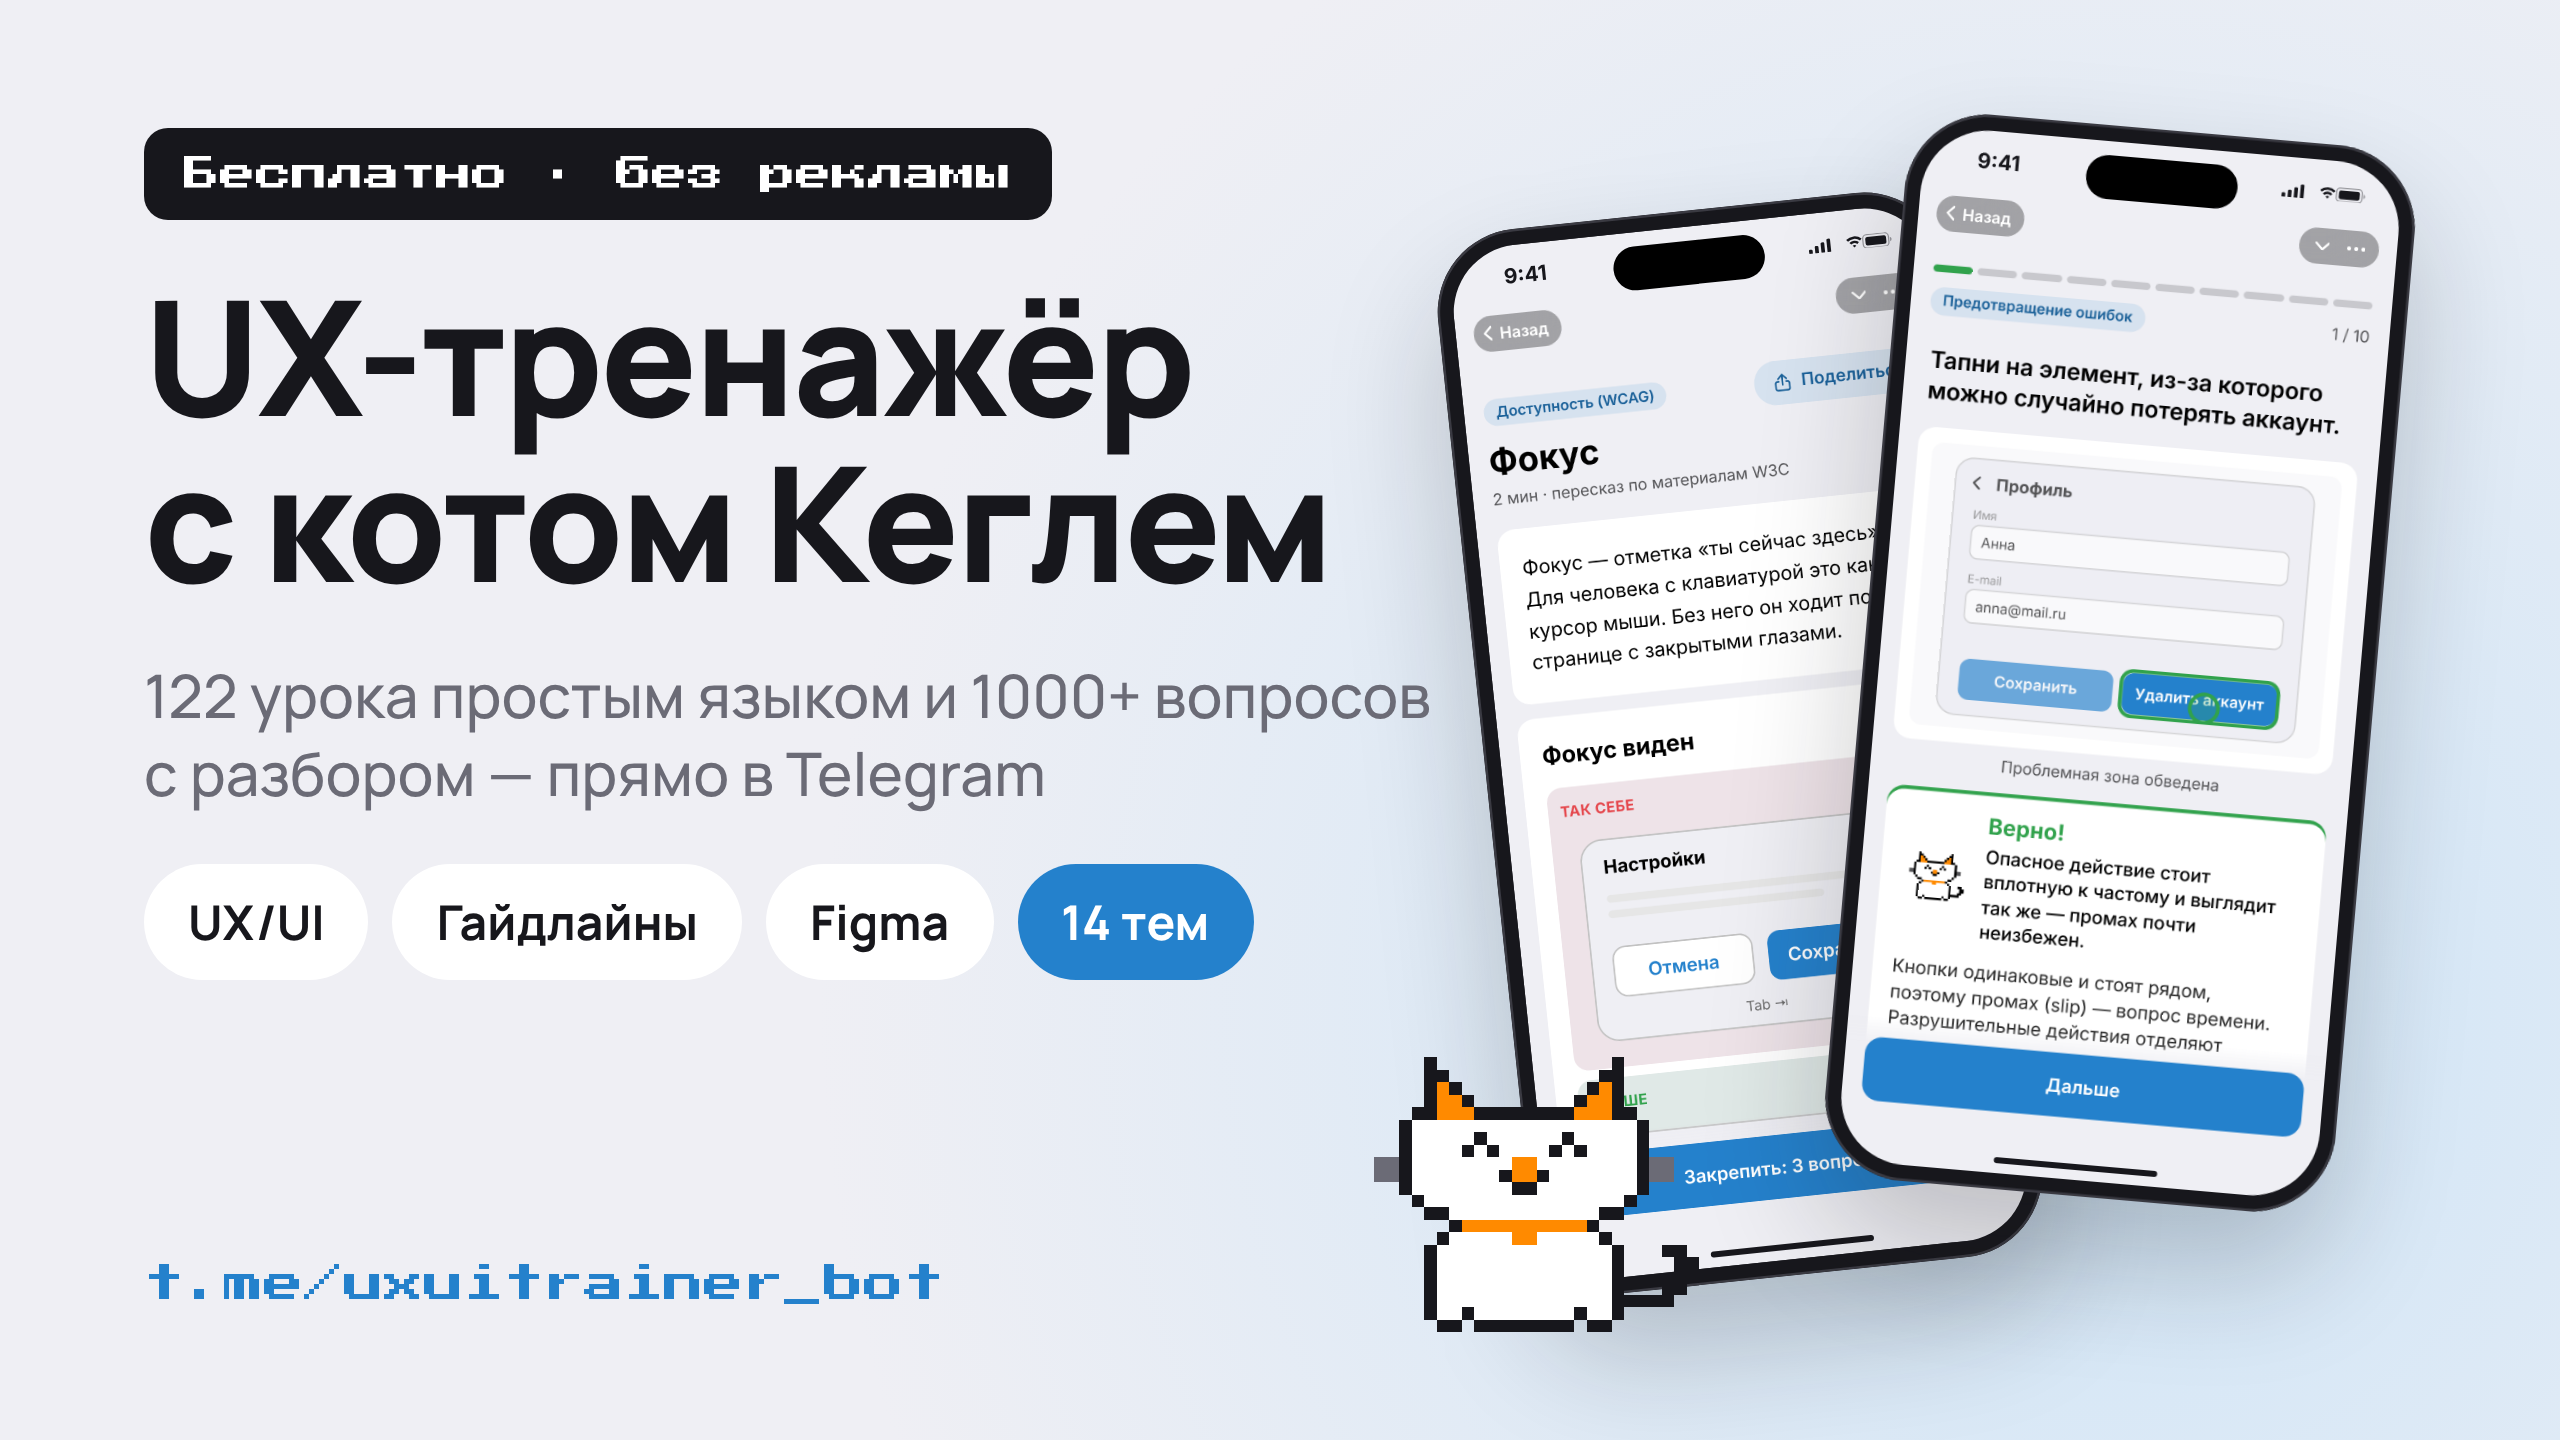
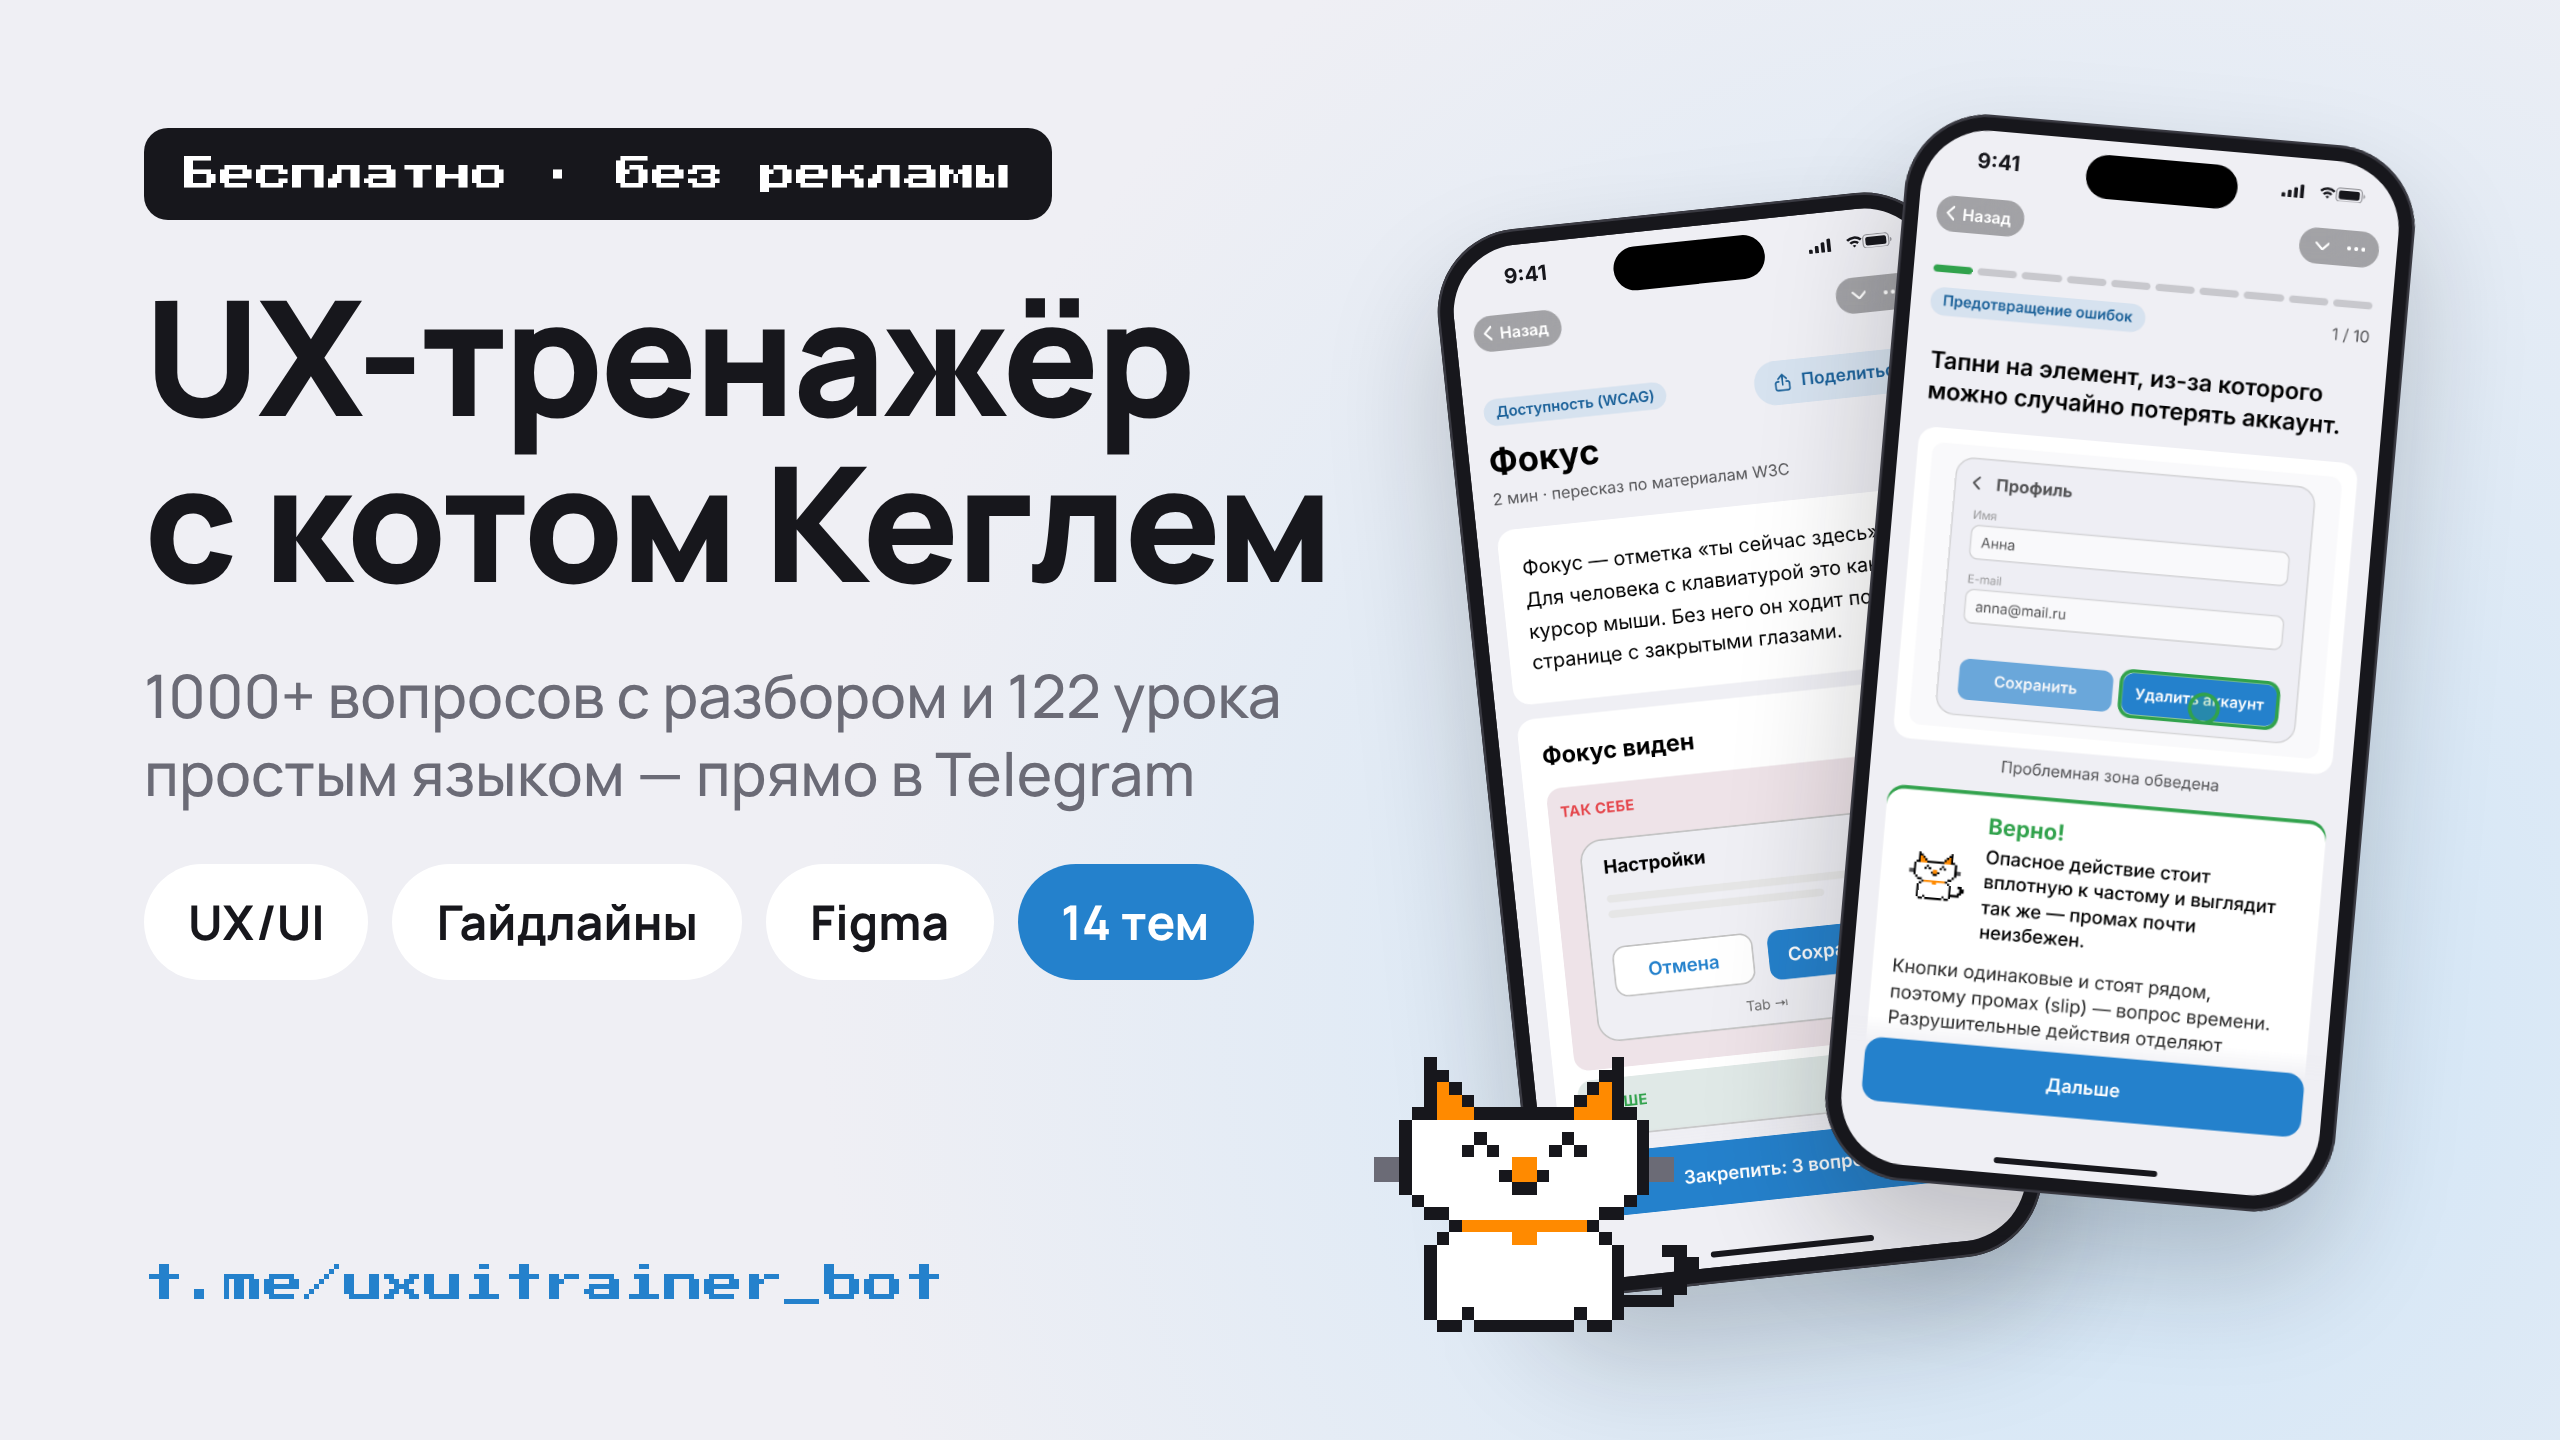
Пост: тесты на первом месте, учебник — в помощь к ним
Claude-Session: https://claude.ai/code/session_016ARqkcdLVW94N54ZbS2hwr

Changed region(s): [[0.0625, 0.4688, 0.5625, 0.5625]]

diff --git a/web/src/post/Post.tsx b/web/src/post/Post.tsx
@@ -21,7 +21,7 @@ export function Post() {
           <br />с котом Кеглем
         </h1>
         <p className="post__lead">
-          {lessons.length} {plural(lessons.length, 'урок', 'урока', 'уроков')} простым языком и {QUESTIONS} вопросов с разбором — прямо в Telegram
+          {QUESTIONS} вопросов с разбором и {lessons.length} {plural(lessons.length, 'урок', 'урока', 'уроков')} простым языком — прямо в Telegram
         </p>
         <div className="post__sections">
           {sections.map((s) => (

diff --git a/brand/telegram/post.md b/brand/telegram/post.md
@@ -1,10 +1,10 @@
 🐈 UX-тренажёр с котом Кеглем — бесплатный Telegram Mini App для дизайнеров
 
-📖 Учебник: 122 урока простым языком. Пересказ NN/g, Laws of UX, Apple, Google, W3C и справки Figma с примерами из жизни, а после каждого урока — три вопроса на закрепление.
+🎯 Больше 1000 вопросов по 14 темам: UX/UI, гайдлайны Apple и Google, доступность и Figma. Многие задания на макетах: тапни на проблему, найди все ошибки, выбери лучший вариант, расставь шаги по порядку.
 
-🎯 Тренажёр: больше 1000 вопросов по 14 темам — UX/UI, гайдлайны Apple и Google, доступность и Figma. Многие задания на макетах: тапни на проблему, найди все ошибки, выбери лучший вариант.
+💡 После каждого ответа — разбор и ссылка на первоисточник: NN/g, Laws of UX, Apple, Google, W3C, справка Figma.
 
-💡 После каждого ответа — разбор и ссылка на первоисточник, а из ошибки можно сразу перейти в нужный урок.
+📖 Ошибся — переходи в учебник. 122 урока простым языком с примерами из жизни, после каждого — три вопроса на закрепление.
 
 🔁 Ошибки возвращаются на повторение через 1, 3 и 7 дней. Занимайся каждый день, чтобы рос стрик, и делись с друзьями результатом, стриком или уроком.
 
